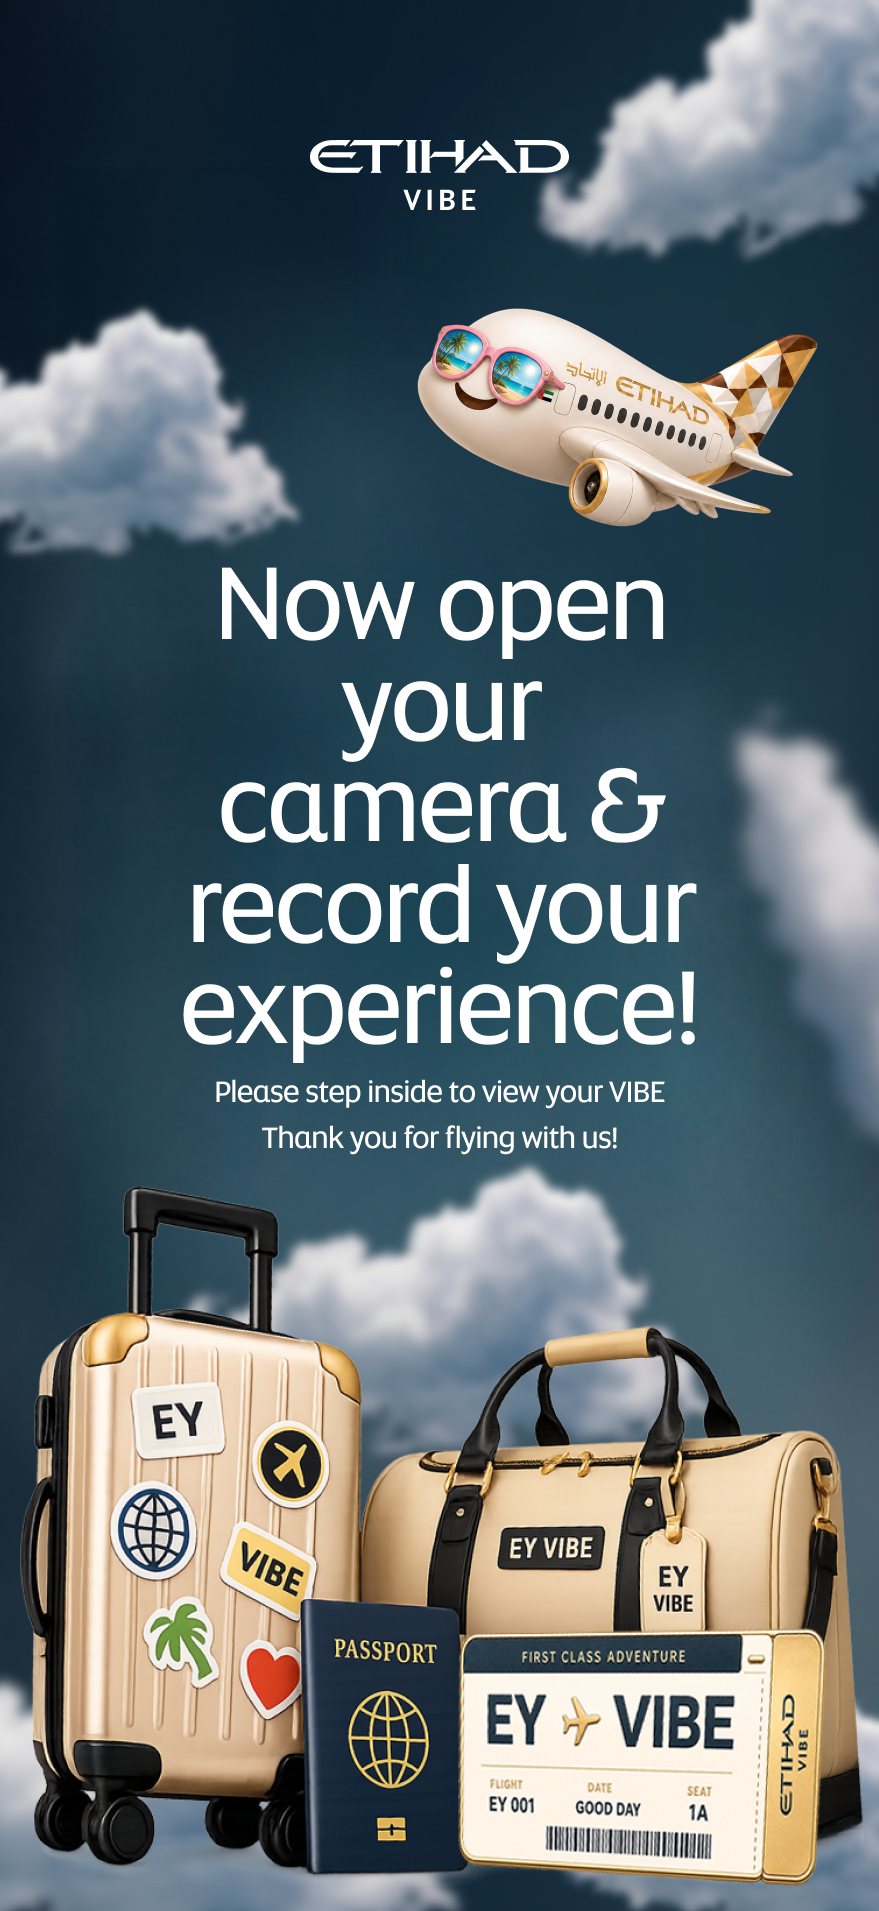
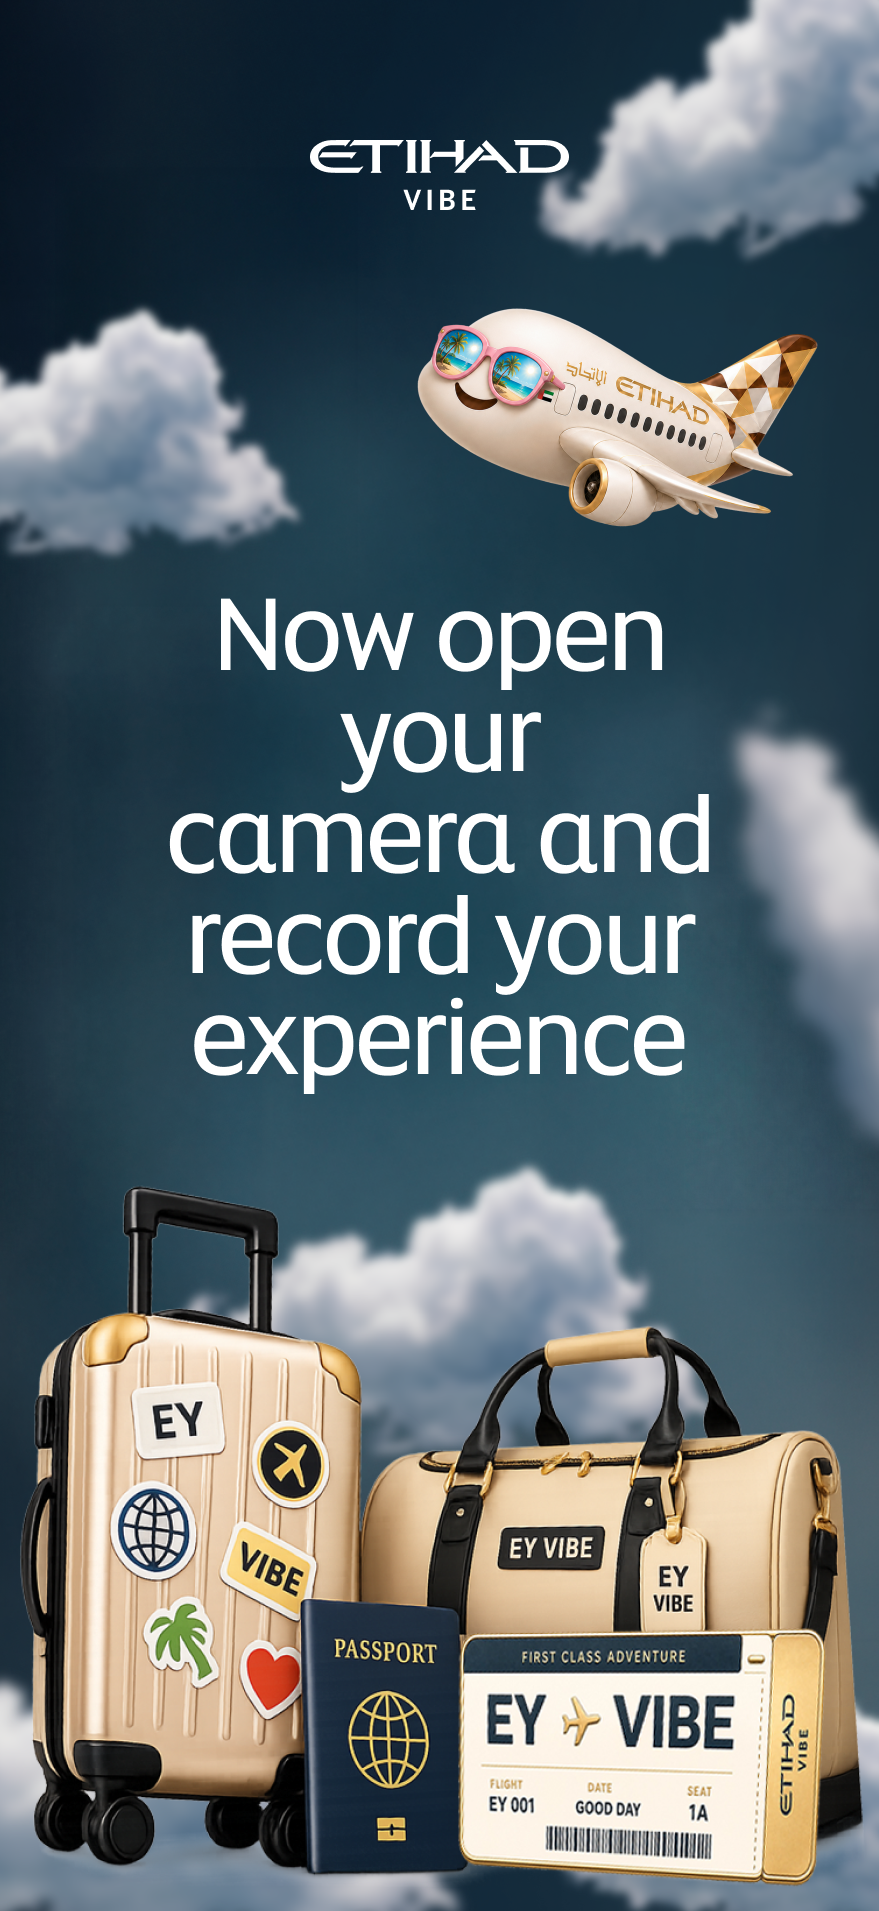
new Changes

Changed region(s): [[0.1843, 0.2779, 0.8294, 0.6175]]

diff --git a/src/style.css b/src/style.css
@@ -26,6 +26,12 @@
   font-weight: 300;
   font-display: swap;
 }
+@font-face {
+  font-family: 'EtihadAltis';
+  src: url('/fonts/EtihadAltis-Bold_V3.ttf') format('truetype');
+  font-weight: 700;
+  font-display: swap;
+}
 
 :root {
   /* Design aspect of your exported artwork (width / height). iPhone 16/17 Pro. */
@@ -217,8 +223,9 @@ body {
   margin: 0 0 3cqw;
   text-align: center;
   font-size: 4cqw;
-  line-height: 1.3;
-  font-weight: 300;
+  line-height: 1;
+  font-weight: 700;
+  letter-spacing: -0.03em;
   font-family: var(--font);
   color: var(--panel-heading);
 }

diff --git a/src/main.js b/src/main.js
@@ -124,7 +124,7 @@ function renderStickerPage() {
         </div>
 
         <section class="sticker-panel">
-          <h2>Just like VIBE, you can customise your experience. Select up to three stickers you would like to see in your destination.</h2>
+          <h2>Drag your stickers!</h2>
           <div class="tray-row">
             <button class="tray-arrow" id="trayPrev" aria-label="Previous stickers">&#8249;</button>
             <div id="tray" class="tray"></div>